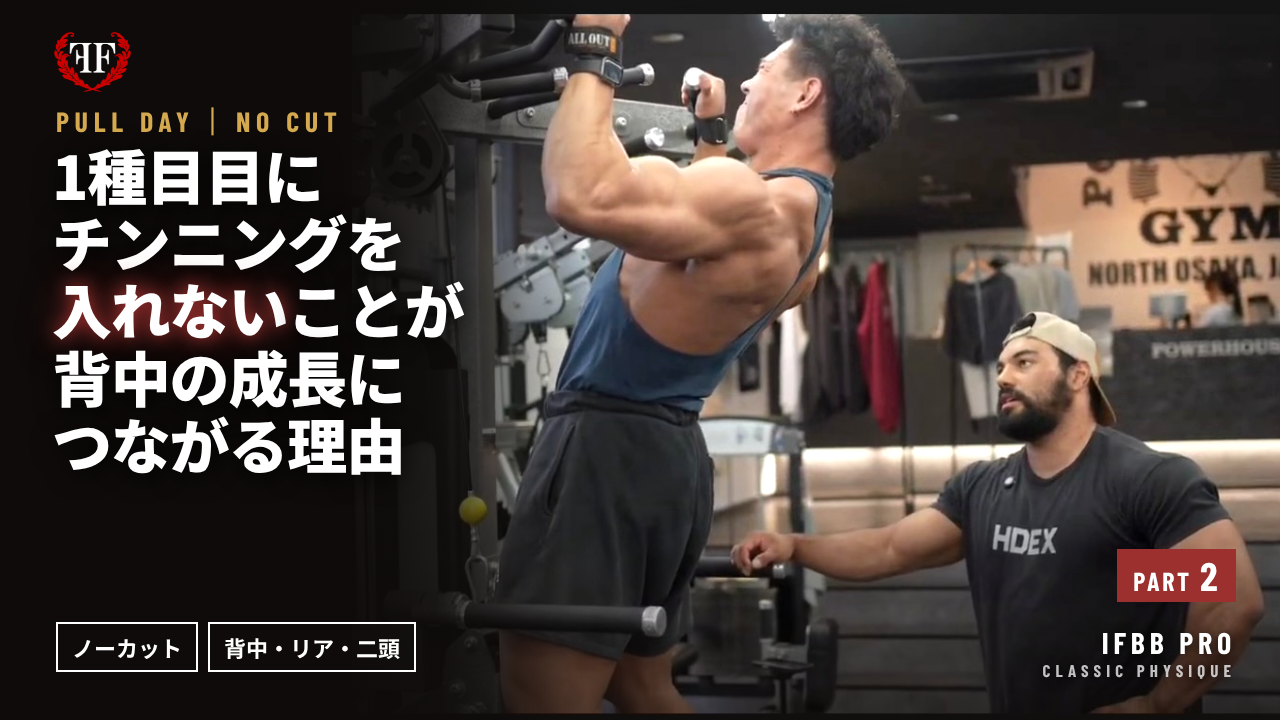
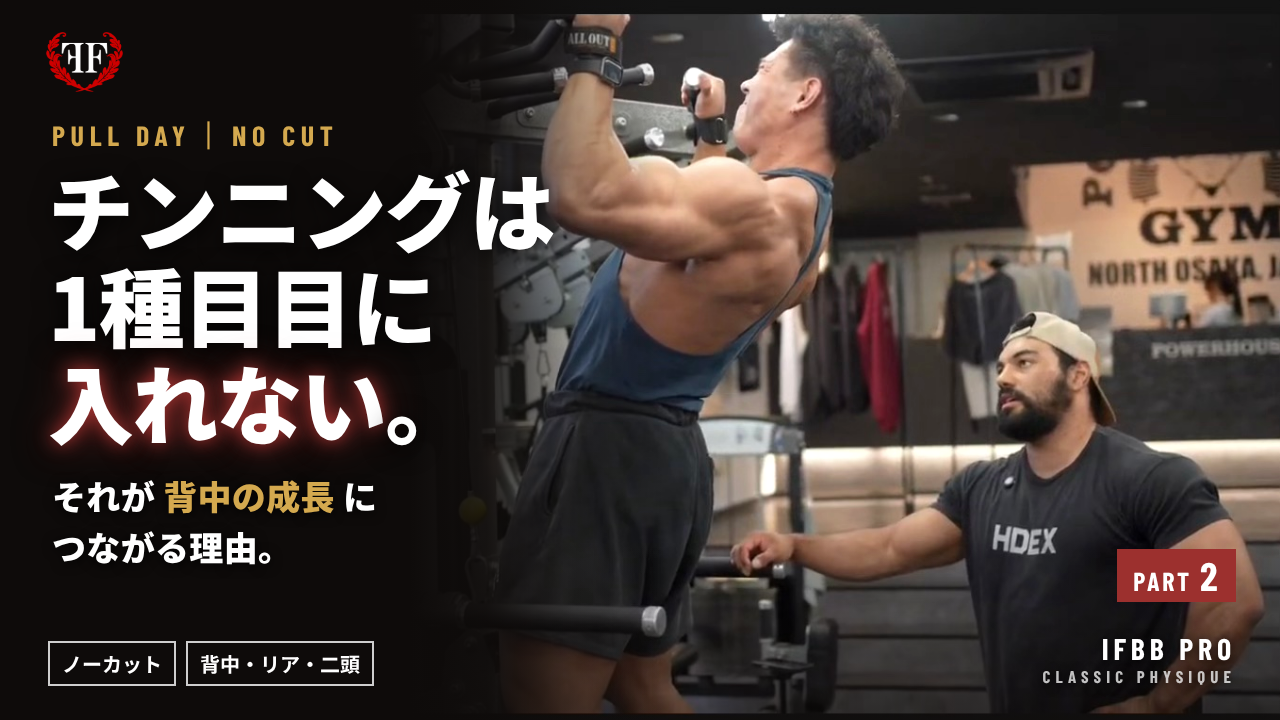
Rework PULL DAY Part 2 thumbnail layout (#108)
* Add UPPER DAY YouTube thumbnails (part 1, 2) and the series thumbnail template

Claude-Session: https://claude.ai/code/session_01HRty6kL8VRnpLHHHzSF3iS

* UPPER DAY thumbnails: reframe to keep the face visible and hide the burned-in caption

Claude-Session: https://claude.ai/code/session_01HRty6kL8VRnpLHHHzSF3iS

* UPPER DAY thumbnails v2: loud yellow/red creator style, distinct from the community look

Claude-Session: https://claude.ai/code/session_01HRty6kL8VRnpLHHHzSF3iS

* UPPER DAY thumbnails v3: competition roar photo plus gym face chip

Claude-Session: https://claude.ai/code/session_01HRty6kL8VRnpLHHHzSF3iS

* UPPER DAY thumbnails: soften hook to Felipe's voice

Claude-Session: https://claude.ai/code/session_01HRty6kL8VRnpLHHHzSF3iS

* UPPER DAY thumbnails: keep the hook line on one row

Claude-Session: https://claude.ai/code/session_01HRty6kL8VRnpLHHHzSF3iS

* UPPER DAY thumbnails: hook label on one line

Claude-Session: https://claude.ai/code/session_01HRty6kL8VRnpLHHHzSF3iS

* UPPER DAY thumbnails on the brand guide: FF black base, white type, laurel red as the single accent, gym press photo; add visual identity PDF

Claude-Session: https://claude.ai/code/session_01HRty6kL8VRnpLHHHzSF3iS

* UPPER DAY thumbnail: three promise-led headline variants on the brand template

Claude-Session: https://claude.ai/code/session_01HRty6kL8VRnpLHHHzSF3iS

* Add post-live story images (thanks + next live 11/23) and story template
[…]

diff --git a/assets/yt/pullday-p2-thumb-template.html b/assets/yt/pullday-p2-thumb-template.html
@@ -4,25 +4,26 @@
 @font-face{font-family:"BC";src:url("../fonts/node_modules/@fontsource/barlow-condensed/files/barlow-condensed-latin-700-normal.woff2") format("woff2");font-weight:700}
 *{margin:0;padding:0;box-sizing:border-box}html,body{width:1280px;height:720px;overflow:hidden;background:#0E0B0A}
 body{font-family:"NS",sans-serif;color:#fff;position:relative}
-.bg{position:absolute;left:340px;top:0;width:940px;height:720px;background:url(chin.jpg) 100% 30%/auto 100% no-repeat;filter:contrast(1.08) saturate(.9) brightness(1.05)}
-.fade{position:absolute;inset:0;background:linear-gradient(90deg,#0E0B0A 0%,#0E0B0A 25%,rgba(14,11,10,.88) 34%,rgba(14,11,10,.35) 41%,rgba(14,11,10,0) 46%),linear-gradient(180deg,rgba(14,11,10,0) 70%,rgba(14,11,10,.6) 100%)}
-.logo{position:absolute;left:52px;top:30px;height:64px}
-.lbl{position:absolute;left:56px;top:104px;font-family:"BC",sans-serif;font-size:28px;letter-spacing:.2em;color:#D4A94F}
-.h{position:absolute;left:52px;top:150px;font-size:66px;font-weight:900;line-height:1.12;letter-spacing:-.02em;text-shadow:0 4px 24px rgba(0,0,0,.8)}
-.h em{font-style:normal;color:#fff;text-shadow:0 0 18px rgba(185,58,56,.95),0 0 40px rgba(185,58,56,.6),0 4px 24px rgba(0,0,0,.8)}
-.sub{position:absolute;left:56px;top:470px;font-size:30px;font-weight:700;color:rgba(255,255,255,.9);line-height:1.5;text-shadow:0 2px 12px rgba(0,0,0,.9)}
-.tag{position:absolute;left:56px;bottom:48px;display:flex;gap:10px}
-.tag span{font-size:22px;font-weight:700;border:2px solid #fff;padding:7px 14px}
+.bg{position:absolute;left:400px;top:0;width:880px;height:720px;background:url(chin.jpg) 100% 30%/auto 100% no-repeat;filter:contrast(1.08) saturate(.9)}
+.fade{position:absolute;inset:0;background:linear-gradient(90deg,#0E0B0A 0%,#0E0B0A 32%,rgba(14,11,10,.9) 38%,rgba(14,11,10,.3) 45%,rgba(14,11,10,0) 52%),linear-gradient(180deg,rgba(14,11,10,0) 75%,rgba(14,11,10,.55) 100%)}
+.logo{position:absolute;left:44px;top:30px;height:64px}
 .part{position:absolute;right:44px;bottom:118px;background:#9C302E;font-family:"BC",sans-serif;font-size:26px;letter-spacing:.1em;padding:8px 16px;line-height:1;display:flex;align-items:baseline;gap:8px}
 .part b{font-size:40px;line-height:.9}
-.pro{position:absolute;right:44px;bottom:40px;text-align:right;font-family:"BC",sans-serif;font-size:30px;letter-spacing:.16em;text-shadow:0 2px 12px rgba(0,0,0,.9)}
+.lbl{position:absolute;left:52px;top:118px;font-family:"BC",sans-serif;font-size:28px;letter-spacing:.2em;color:#D4A94F}
+.h{position:absolute;left:48px;top:160px;font-size:86px;font-weight:900;line-height:1.12;letter-spacing:-.02em;white-space:nowrap;text-shadow:0 4px 24px rgba(0,0,0,.9)}
+.h em{font-style:normal;color:#fff;text-shadow:0 0 18px rgba(185,58,56,.95),0 0 40px rgba(185,58,56,.6),0 4px 24px rgba(0,0,0,.8)}
+.s{position:absolute;left:52px;top:470px;font-size:34px;line-height:1.5;font-weight:900;color:#fff;letter-spacing:.01em;text-shadow:0 2px 12px rgba(0,0,0,.9)}
+.s b{color:#D4A94F}
+.tag{position:absolute;left:48px;bottom:34px;display:flex;gap:10px}
+.tag span{font-size:20px;font-weight:700;border:2px solid rgba(255,255,255,.8);padding:6px 12px}
+.pro{position:absolute;right:44px;bottom:34px;text-align:right;font-family:"BC",sans-serif;font-size:30px;letter-spacing:.16em;text-shadow:0 2px 12px rgba(0,0,0,.9)}
 .pro small{display:block;font-size:17px;letter-spacing:.3em;color:rgba(255,255,255,.75)}
 </style></head><body>
 <div class="bg"></div><div class="fade"></div>
-<img class="logo" src="logo.png" alt="">
+<img class="logo" src="logo.png" alt=""><div class="part">PART<b>2</b></div>
 <p class="lbl">PULL DAY ｜ NO CUT</p>
-<p class="h">背中を<br>デカくする<br>チンニングの<br><em>入れる順番</em>。</p><p class="sub">なぜ3種目目か。ラットプルと何が違うか。<br>減量末期のセット数の決め方まで。</p>
+<p class="h">チンニングは<br>1種目目に<br><em>入れない</em>。</p>
+<p class="s">それが <b>背中の成長</b> に<br>つながる理由。</p>
 <div class="tag"><span>ノーカット</span><span>背中・リア・二頭</span></div>
-<div class="part">PART<b>2</b></div>
 <p class="pro">IFBB PRO<small>CLASSIC PHYSIQUE</small></p>
 </body></html>
